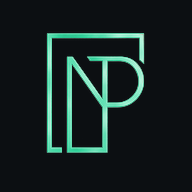
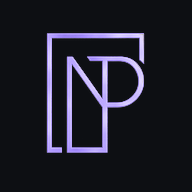
Trocar a identidade da calculadora de verde para violeta
Acento violeta (#A48BFF no escuro, #7B5CFA no claro) em toda a interface,
inclusive o "ok", os banners, o aceite de cookies, os PDFs, o logo, o
favicon, os ícones do app e a prévia do link. Os gráficos da composição
não usam mais verde.

Changed region(s): [[0.2188, 0.1562, 0.75, 0.8125]]

diff --git a/src/styles.css b/src/styles.css
@@ -3,9 +3,10 @@
 @import "@fontsource-variable/geist-mono";
 
 /* =========================================================
-   IDENTIDADE V4: "Grafite e Esmeralda"
-   Neutros grafite frios + um único acento verde esmeralda (lucro, "ok").
-   O logo da Nosso Projeto 3D foi recolorido nesse verde (só na calculadora).
+   IDENTIDADE V4: "Grafite e Violeta"
+   Neutros grafite frios + um único acento violeta. O verde fica só no
+   status "ok" (orçamento pronto), que é sinal e não cor da marca.
+   O logo da Nosso Projeto 3D foi recolorido nesse violeta (só na calculadora).
    Raios: campos 12px, cartões 20px (moldura 24px), botões em pílula.
    ========================================================= */
 
@@ -14,7 +15,7 @@
 :root,
 [data-theme="dark"] {
   --bg: #0c0e11;
-  --bg-glow: rgba(47, 211, 154, 0.07);
+  --bg-glow: rgba(164, 139, 255, 0.08);
   --surface: #14171b;
   --surface-2: #1b1f24;
   --surface-3: #232830;
@@ -23,26 +24,26 @@
   --ink: #eceef1;
   --ink-2: #a3aab4;
   --ink-3: #8b939e;
-  --accent: #2fd39a;
-  --accent-hover: #4fdeac;
-  --accent-ink: #03140d;
-  --accent-text: #52e0ae;
-  --accent-soft: rgba(47, 211, 154, 0.13);
-  --accent-line: rgba(47, 211, 154, 0.4);
-  --accent-glow: rgba(47, 211, 154, 0.55);
+  --accent: #a48bff;
+  --accent-hover: #b6a1ff;
+  --accent-ink: #160b33;
+  --accent-text: #bba8ff;
+  --accent-soft: rgba(164, 139, 255, 0.15);
+  --accent-line: rgba(164, 139, 255, 0.45);
+  --accent-glow: rgba(164, 139, 255, 0.55);
   --danger: #ff6b6b;
   --danger-soft: rgba(255, 107, 107, 0.12);
-  --ok: #45d39a;
+  --ok: var(--accent-text);
   --shadow-tint: 4 6 9;
   --highlight: rgba(255, 255, 255, 0.05);
 
   /* composição do preço: uma cor fixa por parte */
   --c-filament: #6ea8fe;
   --c-energy: #f2c94c;
-  --c-wear: #9b8cff;
+  --c-wear: #e5e7eb;
   --c-labor: #fb923c;
   --c-failure: #c99a6b;
-  --c-packaging: #c084fc;
+  --c-packaging: #38bdf8;
   --c-materials: #d6c26e;
   --c-shopee: #ff7a7a;
   --c-meli: #67e8f9;
@@ -54,7 +55,7 @@
 
 [data-theme="light"] {
   --bg: #f3f4f6;
-  --bg-glow: rgba(34, 197, 139, 0.09);
+  --bg-glow: rgba(123, 92, 250, 0.09);
   --surface: #ffffff;
   --surface-2: #f6f7f9;
   --surface-3: #eceef2;
@@ -63,28 +64,28 @@
   --ink: #12151a;
   --ink-2: #4b525d;
   --ink-3: #636a75;
-  --accent: #22c58b;
-  --accent-hover: #1bb47e;
-  --accent-ink: #03140d;
-  --accent-text: #0a7a55;
-  --accent-soft: rgba(34, 197, 139, 0.13);
-  --accent-line: rgba(10, 122, 85, 0.4);
-  --accent-glow: rgba(34, 197, 139, 0.55);
+  --accent: #7b5cfa;
+  --accent-hover: #6a48f0;
+  --accent-ink: #ffffff;
+  --accent-text: #5b3fd9;
+  --accent-soft: rgba(123, 92, 250, 0.12);
+  --accent-line: rgba(91, 63, 217, 0.4);
+  --accent-glow: rgba(123, 92, 250, 0.5);
   --danger: #d92d2d;
   --danger-soft: rgba(217, 45, 45, 0.08);
-  --ok: #138a5b;
+  --ok: var(--accent-text);
   --shadow-tint: 30 38 52;
   --highlight: rgba(255, 255, 255, 0.9);
 
   --c-filament: #3b7be0;
   --c-energy: #d9a30f;
-  --c-wear: #6d5ce8;
+  --c-wear: #a1a1aa;
   --c-labor: #ea7a1c;
   --c-failure: #9a6a3a;
-  --c-packaging: #a855f7;
+  --c-packaging: #0284c7;
   --c-materials: #9a8a2e;
   --c-shopee: #e5484d;
-  --c-meli: #0891b2;
+  --c-meli: #06b6d4;
   --c-shipping: #64748b;
   --c-taxes: #d6457f;
   color-scheme: light;
@@ -491,7 +492,7 @@
   [data-density="3"] .rp-btnrow .rp-btn:last-child:focus-visible::after { transform: translate(0, 0); }
 }
 
-/* logo verde um pouco mais fechado sobre o fundo claro */
+/* logo um pouco mais fechado sobre o fundo claro */
 [data-theme="light"] .brand-logo { filter: brightness(0.78) saturate(1.3); }
 
 /* Aviso de cookies: vem do medicao.js, que é o mesmo arquivo em todos os

diff --git a/src/lib/pdf.ts b/src/lib/pdf.ts
@@ -42,8 +42,8 @@ function loadImageAsDataURL(src: string) {
 
 // ---------------------------------------------------------
 // ESTILO COMUM DOS PDFs (completo e do cliente)
-// Faixa grafite no topo com fio verde, seções com título verde e linha,
-// linhas "rótulo ... valor", cartão verde com o preço e assinatura no fim.
+// Faixa grafite no topo com fio violeta, seções com título violeta e linha,
+// linhas "rótulo ... valor", cartão violeta com o preço e assinatura no fim.
 // ---------------------------------------------------------
 type Doc = InstanceType<typeof import("jspdf").jsPDF>;
 
@@ -67,7 +67,7 @@ async function createPdf(header: { title: string; subtitle: string; logo: string
 
   doc.setFillColor(12, 14, 17);
   doc.rect(0, 0, pageWidth, 30, "F");
-  doc.setFillColor(47, 211, 154);
+  doc.setFillColor(164, 139, 255);
   doc.rect(0, 30, pageWidth, 1.2, "F");
 
   let textX = MARGIN_X;
@@ -122,7 +122,7 @@ async function createPdf(header: { title: string; subtitle: string; logo: string
     section(title: string) {
       doc.setFont("helvetica", "bold");
       doc.setFontSize(11.5);
-      doc.setTextColor(10, 122, 85);
+      doc.setTextColor(91, 63, 217);
       doc.text(title.toUpperCase(), MARGIN_X, y);
       y += 1.5;
       doc.setDrawColor(226, 229, 234);
@@ -148,7 +148,7 @@ async function createPdf(header: { title: string; subtitle: string; logo: string
       y += 5.2 * lines.length + 1.3;
     },
     priceCard(label: string, value: number) {
-      doc.setFillColor(228, 249, 240);
+      doc.setFillColor(240, 236, 255);
       doc.roundedRect(MARGIN_X, y, contentW, 20, 3, 3, "F");
       doc.setFont("helvetica", "normal");
       doc.setFontSize(10.5);
@@ -156,7 +156,7 @@ async function createPdf(header: { title: string; subtitle: string; logo: string
       doc.text(label, MARGIN_X + 6, y + 8);
       doc.setFont("helvetica", "bold");
       doc.setFontSize(18);
-      doc.setTextColor(10, 122, 85);
+      doc.setTextColor(91, 63, 217);
       doc.text(brl(value), MARGIN_X + 6, y + 16);
       y += 30;
     },

diff --git a/index.html b/index.html
@@ -26,7 +26,7 @@
 <meta property="og:image:type" content="image/jpeg">
 <meta property="og:image:width" content="1200">
 <meta property="og:image:height" content="630">
-<meta property="og:image:alt" content="Logo verde da Nosso Projeto 3D e o texto: Quanto cobrar pela sua peça? Calculadora de impressão 3D.">
+<meta property="og:image:alt" content="Logo violeta da Nosso Projeto 3D e o texto: Quanto cobrar pela sua peça? Calculadora de impressão 3D.">
 <meta name="twitter:card" content="summary_large_image">
 <!-- tema salvo aplicado antes da primeira pintura (sem "piscar") -->
 <script src="/calc-3d/tema.js"></script>

diff --git a/CLAUDE.md b/CLAUDE.md
@@ -41,8 +41,8 @@ O README.md explica a fórmula de preço e onde ficam os dados. Leia-o antes de 
 - Texto digitado sempre entra como texto no React (nunca `dangerouslySetInnerHTML`). Mantenha isso.
 - Os campos precisam ter fonte de pelo menos 16px, para o iPhone não dar zoom automático.
 - Emojis na mensagem do WhatsApp já quebraram. Teste a codificação do texto ao mexer nela (o teste e2e "WhatsApp" confere).
-- Identidade V4 "Grafite e Esmeralda": neutros grafite + um único acento verde esmeralda (`--accent`, #2FD39A). Geist no texto e nos números, Geist Mono só em detalhes técnicos. Laranja é a cor do Ajuste 3MF e dourado a do site/catálogo: não use aqui.
-- O logo, o favicon e os ícones do app foram recoloridos em verde (`node scripts/recolorir-logo.mjs`, a partir dos originais em `scripts/logo-dourado/`). As cores do aviso de cookies são trocadas em `src/styles.css`, sem mexer no `medicao.js` compartilhado.
+- Identidade V4 "Grafite e Violeta": neutros grafite + um único acento violeta (`--accent`: #A48BFF no escuro, #7B5CFA no claro). Nada de verde na interface, nem no "ok". Geist no texto e nos números, Geist Mono só em detalhes técnicos. Laranja é a cor do Ajuste 3MF e dourado a do site/catálogo: não use aqui.
+- O logo, o favicon e os ícones do app foram recoloridos em violeta (`node scripts/recolorir-logo.mjs`, a partir dos originais em `scripts/logo-dourado/`). As cores do aviso de cookies são trocadas em `src/styles.css`, sem mexer no `medicao.js` compartilhado.
 
 ## Imagens
 

diff --git a/README.md b/README.md
@@ -8,7 +8,7 @@ Publicada em **https://nossoprojeto3d.github.io/calc-3d/**. Funciona sem servido
 tudo fica no aparelho de quem usa.
 
 V4: Vite + React + TypeScript + Tailwind v4, com identidade própria
-("Grafite e Esmeralda") e o logo da Nosso Projeto 3D recolorido em verde.
+("Grafite e Violeta") e o logo da Nosso Projeto 3D recolorido em violeta.
 
 ---
 
